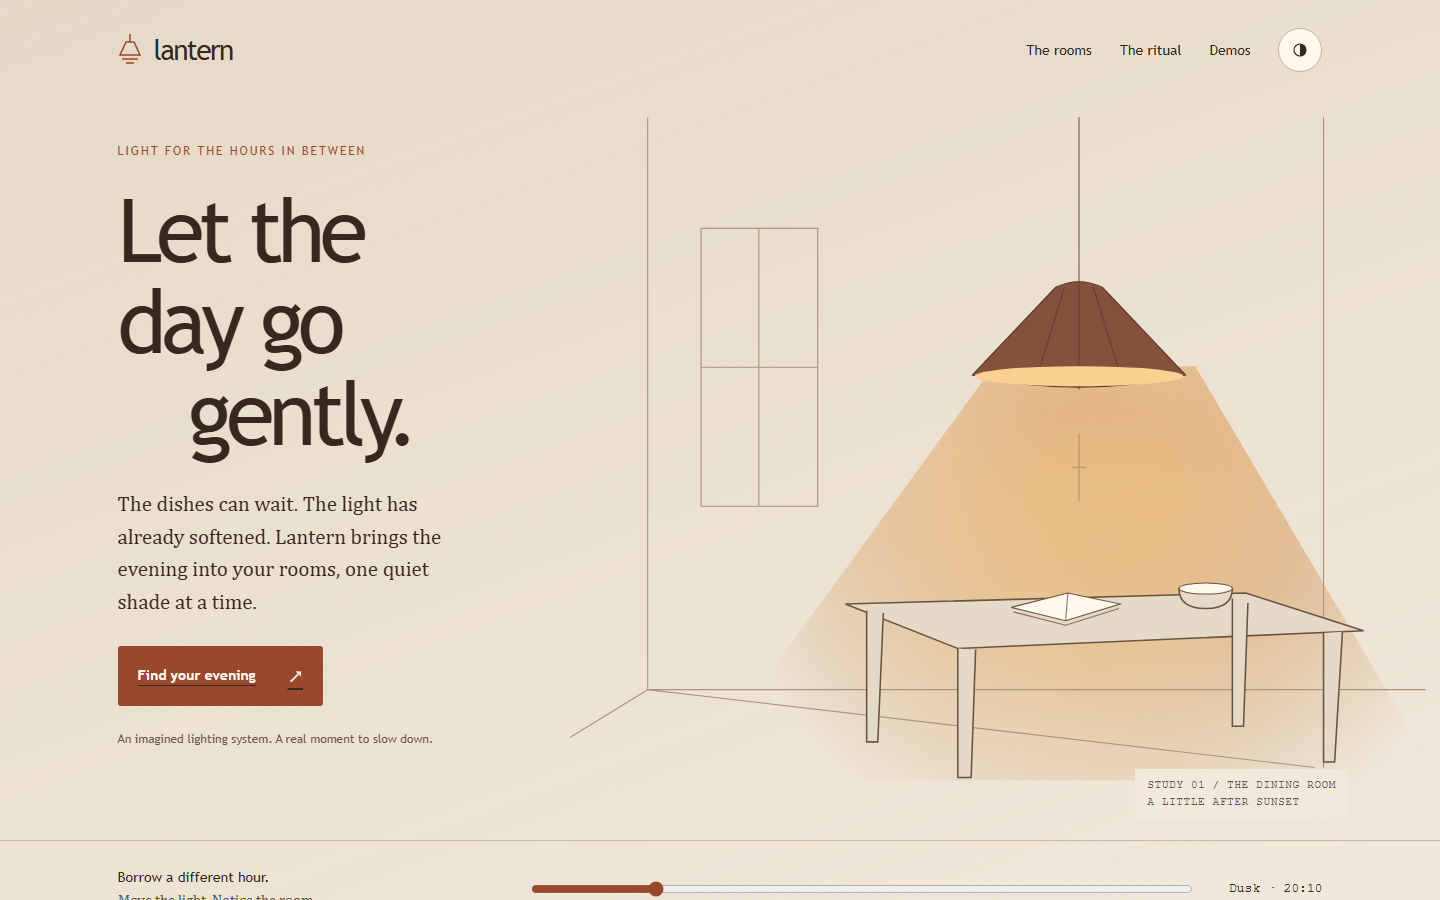
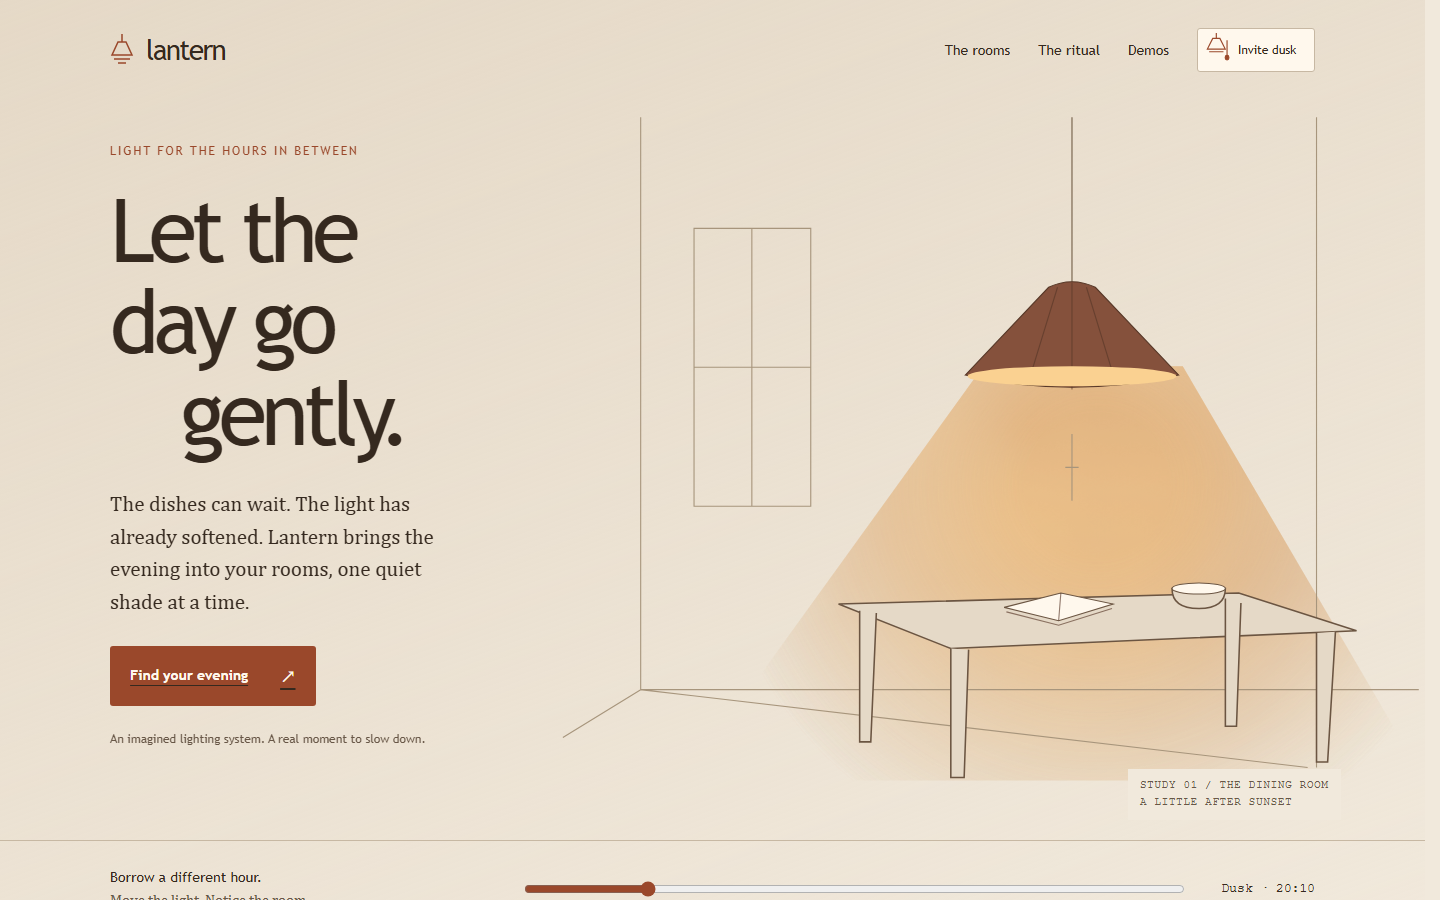
Signal and Lantern: themed theme switch with a slow reveal
Signal: a relay lever and one lime scan line crossing the page.
Lantern: a lamp pull cord; light withdraws into, or spreads from, the pendant.
1600ms view transition, latest click wins, immediate change for reduced
motion, the static tier and browsers without view transitions.

diff --git a/demos/experience/lantern.html b/demos/experience/lantern.html
@@ -46,7 +46,25 @@
     --beam-opacity: .85;
   }
   * { box-sizing: border-box; }
-  html { background: var(--bg); }
+  html { background: var(--bg); scrollbar-gutter: stable; }
+  @property --lamp-radius { syntax: '<length>'; inherits: false; initial-value: 0px; }
+  ::view-transition { pointer-events: none; }
+  html[data-theme-motion]::view-transition-group(*),
+  html[data-theme-motion]::view-transition-old(*),
+  html[data-theme-motion]::view-transition-new(*) { animation: none; mix-blend-mode: normal; }
+  /* Only the boundary is feathered. The captured type is never blurred or scaled. */
+  html[data-theme-motion="daylight"]::view-transition-new(root) {
+    mask-image: radial-gradient(circle at var(--lamp-x) var(--lamp-y), #000 calc(var(--lamp-radius) - 32px), transparent var(--lamp-radius));
+  }
+  html[data-theme-motion="lamplight"]::view-transition-new(root) {
+    mask-image: radial-gradient(circle at var(--lamp-x) var(--lamp-y), transparent calc(var(--lamp-radius) - 32px), #000 var(--lamp-radius));
+  }
+  html[data-theme-motion]::view-transition-old(lantern-switch),
+  html[data-theme-motion]::view-transition-old(lantern-room),
+  html[data-theme-motion]::view-transition-old(lantern-light) { display: none; }
+  html[data-theme-motion] .theme { view-transition-name: lantern-switch; }
+  html[data-theme-motion] .room-art { view-transition-name: lantern-room; }
+  html[data-theme-motion] .flow-hero__canvas { view-transition-name: lantern-light; }
   body { margin: 0; color: var(--ink); background: linear-gradient(160deg, var(--bg-2), transparent 45%), var(--bg); font: 18px/1.6 var(--serif); }
   button, input, select { font: inherit; color: inherit; }
   button, a, input, select { touch-action: manipulation; }
@@ -60,9 +78,11 @@
   .nav .sp { flex: 1; }
   .nav a { text-decoration: none; min-height: 44px; display: inline-flex; align-items: center; }
   .nav a:hover { text-decoration: underline; }
-  .theme { color: var(--ink); border: 1px solid var(--line); border-radius: 50%; width: 44px; height: 44px; background: var(--surface); display: grid; place-items: center; box-shadow: var(--shadow); }
+  .theme { color: var(--ink); border: 1px solid var(--line); border-radius: 3px; width: 118px; min-height: 44px; padding: 4px 8px; background: var(--surface); display: inline-flex; gap: 6px; align-items: center; box-shadow: var(--shadow); font: 12px var(--display); white-space: nowrap; flex-shrink: 0; }
   .theme:hover { border-color: var(--accent); }
-  .theme svg { width: 18px; height: 18px; }
+  .theme svg { width: 26px; height: 34px; color: var(--accent); overflow: visible; }
+  .lamp-pull { transform: translateY(0); }
+  .theme[aria-pressed="true"] .lamp-pull { transform: translateY(5px); }
   /* The lamp, floor and light share one coordinate space. Nothing is boxed. */
   #hero { --magnetic-focus: var(--accent); min-height: 650px; background: transparent; isolation: isolate; overflow: hidden; }
   #hero::before, #hero .flow-hero__canvas {
@@ -174,7 +194,7 @@
 <header class="wrap nav">
   <span class="logo"><svg viewBox="0 0 24 32" fill="none" stroke="currentColor" stroke-width="1.5" aria-hidden="true"><path d="M12 0v8M8 8h8l6 13H2L8 8ZM4 25h16M8 29h8"/></svg>lantern</span>
   <span class="sp"></span><a href="#rooms">The rooms</a><a href="#how">The ritual</a><a class="keep" href="index.html">Demos</a>
-  <button class="theme spring-press" id="theme" type="button" aria-label="Switch to the dark colour theme" title="Change colour theme"><svg viewBox="0 0 24 24" aria-hidden="true"><circle cx="12" cy="12" r="8" fill="none" stroke="currentColor" stroke-width="1.5"/><path d="M12 4a8 8 0 0 1 0 16Z" fill="currentColor"/></svg></button>
+  <button class="theme" id="theme" type="button" aria-pressed="false" aria-label="Invite dusk into the room"><svg viewBox="0 0 28 38" fill="none" stroke="currentColor" stroke-width="1.3" aria-hidden="true"><path d="M11 0v6M7 6h8l6 12H1ZM3 21h16"/><g class="lamp-pull"><path d="M23 8v17"/><rect x="21" y="25" width="4" height="5" rx="2" fill="currentColor"/></g></svg><span id="theme-label">Invite dusk</span></button>
 </header>
 <main>
 <section class="flow-hero" id="hero" aria-labelledby="title">
@@ -279,29 +299,134 @@
   var scheme = matchMedia('(prefers-color-scheme: dark)'), theme = document.getElementById('theme');
   function isDark() { return document.documentElement.dataset.theme ? document.documentElement.dataset.theme === 'dark' : scheme.matches; }
   function mix(x, y, t) { return 'rgb(' + x.map(function (v, i) { return Math.round(v + (y[i] - v) * t); }).join(' ') + ')'; }
+  var paletteBlend = isDark() ? 1 : 0;
+  function paintLight() {
+    var v = +hour.value, i = v < 50 ? 0 : 1, t = (v - LIGHT_SKIES[i].at) / 50;
+    ['a', 'b', 'c'].forEach(function (key) {
+      var light = LIGHT_SKIES[i][key].map(function (n, j) { return n + (LIGHT_SKIES[i + 1][key][j] - n) * t; });
+      var dark = DARK_SKIES[i][key].map(function (n, j) { return n + (DARK_SKIES[i + 1][key][j] - n) * t; });
+      hero.style.setProperty('--flow-' + key, mix(light, dark, paletteBlend));
+    });
+    // Both the still beam and the quality-governed shader read this same palette.
+    hero.style.setProperty('--beam-opacity', String(.65 + .2 * paletteBlend));
+    flow.refresh();
+  }
   function apply() {
     queued = false;
-    var skies = isDark() ? DARK_SKIES : LIGHT_SKIES;
-    var v = +hour.value, i = v < 50 ? 0 : 1, lo = skies[i], hi = skies[i + 1], t = (v - lo.at) / (hi.at - lo.at);
-    hero.style.setProperty('--flow-a', mix(lo.a, hi.a, t));
-    hero.style.setProperty('--flow-b', mix(lo.b, hi.b, t));
-    hero.style.setProperty('--flow-c', mix(lo.c, hi.c, t));
+    var v = +hour.value;
+    paintLight();
     document.getElementById('scene-time').textContent = v < 25 ? 'A little after sunset' : v < 75 ? 'The house is quiet now' : 'Morning, at your own pace';
     // 0..100 maps 18:00 → 06:00
     var mins = 18 * 60 + Math.round(v / 100 * 720 / 5) * 5, h = Math.floor(mins / 60) % 24, m = mins % 60;
     var name = v < 25 ? 'Dusk' : v < 75 ? 'Midnight' : 'Dawn';
     out.textContent = name + ' · ' + String(h).padStart(2, '0') + ':' + String(m).padStart(2, '0');
     hour.setAttribute('aria-valuetext', out.textContent);
-    flow.refresh();
   }
   var queued = false;
   hour.addEventListener('input', function () { if (!queued) { queued = true; requestAnimationFrame(apply); } }); // one update per frame
-  theme.addEventListener('click', function () {
-    document.documentElement.dataset.theme = isDark() ? 'light' : 'dark';
-    apply(); themeLabel();
-  });
-  function themeLabel() { var label = 'Switch to the ' + (isDark() ? 'light' : 'dark') + ' colour theme'; theme.setAttribute('aria-label', label); theme.title = label; }
-  scheme.addEventListener('change', function () { apply(); themeLabel(); });
+  var root = document.documentElement, reduced = matchMedia('(prefers-reduced-motion: reduce)');
+  var themeIntent = null, themeRun = 0, themeTransition = null, themeAnimations = [], paletteFrame = 0;
+  var themeDuration = 1600, themeEase = 'cubic-bezier(.45,.05,.25,1)';
+  function themeLabel() {
+    var dark = isDark(), label = dark ? 'Let daylight into the room' : 'Invite dusk into the room';
+    document.getElementById('theme-label').textContent = dark ? 'Let day in' : 'Invite dusk';
+    theme.setAttribute('aria-label', label); theme.title = label;
+    theme.setAttribute('aria-pressed', String(dark));
+  }
+  function themeStill() {
+    return reduced.matches || root.dataset.quality === 'static' || !document.startViewTransition ||
+      !window.CSS || !CSS.registerProperty || !CSS.supports('mask-image', 'radial-gradient(circle, #000, transparent)');
+  }
+  function stopThemeAnimations() {
+    cancelAnimationFrame(paletteFrame); paletteFrame = 0;
+    themeAnimations.forEach(function (a) { a.cancel(); }); themeAnimations = [];
+  }
+  function themePaint() {
+    var nodes = [theme.querySelector('.lamp-pull')].concat(Array.from(document.querySelectorAll('.room-art path, .room-art ellipse')));
+    return nodes.map(function (node) {
+      var cs = getComputedStyle(node), props = node.classList.contains('lamp-pull') ? ['transform'] : ['fill', 'stroke'];
+      var from = {}; props.forEach(function (p) { from[p] = cs[p]; });
+      return { node: node, props: props, from: from };
+    });
+  }
+  function applyTheme(next, immediate) {
+    root.dataset.theme = next; themeLabel();
+    if (immediate) { paletteBlend = next === 'dark' ? 1 : 0; paintLight(); }
+  }
+  function clearTheme(run) {
+    if (run !== themeRun) return;
+    stopThemeAnimations(); paletteBlend = isDark() ? 1 : 0; paintLight();
+    root.removeAttribute('data-theme-motion');
+    root.style.removeProperty('--lamp-x'); root.style.removeProperty('--lamp-y');
+    themeTransition = null; themeIntent = null;
+  }
+  function changeTheme() {
+    var next = (themeIntent || (isDark() ? 'dark' : 'light')) === 'dark' ? 'light' : 'dark';
+    themeIntent = next;
+    var run = ++themeRun, before = themePaint(), fromBlend = paletteBlend;
+    if (themeTransition) themeTransition.skipTransition();
+    stopThemeAnimations();
+    if (themeStill()) { applyTheme(next, true); clearTheme(run); return; }
+    // The pendant's actual rim is the origin, including the mobile SVG's meet scaling.
+    // When it is outside the viewport, use the little lamp in the switch instead.
+    var lamp = document.querySelector('.room-art .rim').getBoundingClientRect();
+    var x = lamp.left + lamp.width / 2, y = lamp.top + lamp.height / 2;
+    if (x < 0 || x > innerWidth || y < 0 || y > innerHeight) {
+      lamp = theme.querySelector('svg').getBoundingClientRect(); x = lamp.left + lamp.width / 2; y = lamp.top + lamp.height / 2;
+    }
+    var radius = Math.hypot(Math.max(x, innerWidth - x), Math.max(y, innerHeight - y)) + 40;
+    root.style.setProperty('--lamp-x', x + 'px'); root.style.setProperty('--lamp-y', y + 'px');
+    root.dataset.themeMotion = next === 'dark' ? 'lamplight' : 'daylight';
+    function failed(error) {
+      if (run !== themeRun) return; // A newer intent deliberately skipped this capture.
+      console.error('Lantern: theme reveal failed.', error);
+      applyTheme(next, true); if (themeTransition) themeTransition.skipTransition(); clearTheme(run);
+    }
+    try {
+      var vt = document.startViewTransition(function () { if (run === themeRun) applyTheme(next, false); });
+      themeTransition = vt;
+      vt.ready.then(function () {
+        if (run !== themeRun) return;
+        var timing = { duration: themeDuration, easing: themeEase, fill: 'both' };
+        before.forEach(function (item) {
+          var cs = getComputedStyle(item.node), from = {}, to = {};
+          item.props.forEach(function (p) { if (item.from[p] !== cs[p]) { from[p] = item.from[p]; to[p] = cs[p]; } });
+          if (Object.keys(to).length) themeAnimations.push(item.node.animate([from, to], timing));
+        });
+        var reveal = root.animate([
+          { '--lamp-radius': (next === 'dark' ? radius : 0) + 'px' },
+          { '--lamp-radius': (next === 'dark' ? 0 : radius) + 'px' }
+        ], Object.assign({ pseudoElement: '::view-transition-new(root)' }, timing));
+        themeAnimations.push(reveal);
+        var lastPaint = -Infinity;
+        function followLight(now) {
+          if (run !== themeRun) return;
+          try {
+            // Use the reveal's eased progress, with the existing low tier's 30fps cap.
+            var progress = reveal.effect.getComputedTiming().progress;
+            if (progress !== null && (root.dataset.quality !== 'low' || now - lastPaint >= 1000 / 30 || progress === 1)) {
+              paletteBlend = fromBlend + ((next === 'dark' ? 1 : 0) - fromBlend) * progress;
+              paintLight(); lastPaint = now;
+            }
+            paletteFrame = requestAnimationFrame(followLight);
+          } catch (error) { failed(error); }
+        }
+        paletteFrame = requestAnimationFrame(followLight);
+      }).catch(failed);
+      vt.updateCallbackDone.catch(failed);
+      vt.finished.then(function () { clearTheme(run); }, failed);
+    } catch (error) { failed(error); }
+  }
+  function settleTheme() {
+    if (!themeTransition) return;
+    var next = themeIntent, vt = themeTransition; ++themeRun;
+    vt.skipTransition(); applyTheme(next, true); clearTheme(themeRun);
+  }
+  theme.addEventListener('click', changeTheme);
+  reduced.addEventListener('change', function () { if (reduced.matches) settleTheme(); });
+  root.addEventListener('qualitychange', function () { if (themeStill()) settleTheme(); });
+  document.addEventListener('visibilitychange', function () { if (document.hidden) settleTheme(); });
+  scheme.addEventListener('change', function () { settleTheme(); if (!themeTransition) paletteBlend = isDark() ? 1 : 0; apply(); themeLabel(); });
   themeLabel(); apply();
 
   var state = document.getElementById('flow-state');

diff --git a/demos/experience/signal.html b/demos/experience/signal.html
@@ -38,7 +38,17 @@
     --shadow: 0 12px 36px -24px #424c3860;
   }
   * { box-sizing: border-box; }
-  html { background: var(--bg); }
+  html { background: var(--bg); scrollbar-gutter: stable; }
+  ::view-transition { pointer-events: none; }
+  /* A relay scan: the old desk stays still beneath one downward trace.
+     The switch stays live; the fleet's new colours ease behind the reveal. */
+  html[data-theme-motion]::view-transition-group(*) { animation: none; }
+  html[data-theme-motion]::view-transition-old(*),
+  html[data-theme-motion]::view-transition-new(*) { animation: none; mix-blend-mode: normal; }
+  html[data-theme-motion]::view-transition-new(root) { z-index: 2; }
+  html[data-theme-motion]::view-transition-old(signal-switch),
+  html[data-theme-motion]::view-transition-old(signal-scan) { display: none; }
+  html[data-theme-motion]::view-transition-group(signal-scan) { z-index: 3; }
   body { margin: 0; min-height: 100vh; color: var(--ink); font: 14px/1.5 var(--sans); background: radial-gradient(ellipse at 10% 0%, var(--bg-2), transparent 60%), var(--bg); }
   button, input { color: inherit; font: inherit; }
   button, a, input { touch-action: manipulation; }
@@ -54,8 +64,14 @@
   .env::before { content: " / "; color: var(--accent); }
   .spacer { flex: 1; }
   .bar a { font-size: 13px; }
-  .theme { border: 1px solid var(--line-2); background: var(--surface); padding: 7px 12px; width: 108px; min-height: 40px; font: 12px var(--mono); }
+  .theme { border: 1px solid var(--line-2); background: var(--surface); padding: 6px 10px; width: 140px; min-height: 44px; display: inline-flex; align-items: center; gap: 9px; font: 12px var(--mono); white-space: nowrap; flex-shrink: 0; }
   .theme:hover, .theme:focus-visible { background: var(--bg-2); }
+  .theme svg { width: 32px; height: 28px; color: var(--accent); }
+  .relay-lever { transform-origin: 16px 20px; transform: rotate(-28deg); }
+  .theme[aria-pressed="true"] .relay-lever { transform: rotate(28deg); }
+  html[data-theme-motion] .theme { view-transition-name: signal-switch; }
+  .theme-scan { position: fixed; top: 0; left: 0; width: 100%; height: 1px; background: var(--accent); pointer-events: none; opacity: 0; }
+  html[data-theme-motion] .theme-scan { opacity: 1; view-transition-name: signal-scan; }
   main { max-width: 1440px; padding: 30px clamp(20px, 4vw, 64px) 32px; margin: auto; }
   .head { display: flex; gap: 24px; justify-content: space-between; align-items: end; }
   .eyebrow { margin: 0 0 12px; }
@@ -179,8 +195,9 @@
   </span>
   <span class="env">Relay desk / fictional fleet</span>
   <span class="spacer"></span>
-  <a href="index.html">Demos</a><button class="theme spring-press" id="theme" type="button" aria-label="Change colour theme">Light desk</button>
+  <a href="index.html">Demos</a><button class="theme" id="theme" type="button" aria-pressed="false" aria-label="Route to light desk"><svg viewBox="0 0 32 28" fill="none" stroke="currentColor" aria-hidden="true"><path d="M4 6h5m14 0h5M5 24h22"/><circle cx="16" cy="20" r="4"/><g class="relay-lever"><path d="M16 20V6" stroke-width="2"/><rect x="12" y="2" width="8" height="7" rx="1" fill="currentColor"/></g></svg><span id="theme-label">Light desk</span></button>
 </header>
+<div class="theme-scan" aria-hidden="true"></div>
 
 <main>
   <section id="list" aria-labelledby="t">
@@ -414,9 +431,73 @@
   document.querySelectorAll('[data-service]').forEach(function (b) { b.addEventListener('click', function () { show(b.dataset.service, true); }); });
   // A single explicit override; the system theme remains the initial choice.
   var theme = $('theme'), scheme = matchMedia('(prefers-color-scheme: dark)');
-  function themeLabel() { var dark = document.documentElement.dataset.theme ? document.documentElement.dataset.theme === 'dark' : scheme.matches; theme.textContent = dark ? 'Light desk' : 'Dark desk'; }
-  theme.addEventListener('click', function () { var dark = document.documentElement.dataset.theme ? document.documentElement.dataset.theme === 'dark' : scheme.matches; document.documentElement.dataset.theme = dark ? 'light' : 'dark'; themeLabel(); });
-  scheme.addEventListener('change', themeLabel); themeLabel();
+  var root = document.documentElement, reduced = matchMedia('(prefers-reduced-motion: reduce)');
+  var themeIntent = null, themeRun = 0, themeTransition = null, themeAnimations = [];
+  var themeDuration = 1600, themeEase = 'cubic-bezier(.45,.05,.25,1)';
+  function isDark() { return root.dataset.theme ? root.dataset.theme === 'dark' : scheme.matches; }
+  function themeLabel() {
+    var dark = isDark(), label = dark ? 'Light desk' : 'Dark desk';
+    $('theme-label').textContent = label;
+    theme.setAttribute('aria-label', 'Route to ' + label.toLowerCase());
+    theme.setAttribute('aria-pressed', String(dark));
+    theme.title = 'Route to ' + label.toLowerCase();
+  }
+  function themeStill() { return reduced.matches || root.dataset.quality === 'static' || !document.startViewTransition; }
+  function stopThemeAnimations() { themeAnimations.forEach(function (a) { a.cancel(); }); themeAnimations = []; }
+  function themePaint() {
+    var nodes = [theme.querySelector('.relay-lever')].concat(Array.from(fleet.querySelectorAll('path, polyline')));
+    return nodes.map(function (node) {
+      var cs = getComputedStyle(node), props = node.classList.contains('relay-lever') ? ['transform'] : ['fill', 'stroke'];
+      var from = {}; props.forEach(function (p) { from[p] = cs[p]; });
+      return { node: node, props: props, from: from };
+    });
+  }
+  function applyTheme(next) { root.dataset.theme = next; themeLabel(); }
+  function clearTheme(run) {
+    if (run !== themeRun) return;
+    stopThemeAnimations(); root.removeAttribute('data-theme-motion'); themeTransition = null; themeIntent = null;
+  }
+  function changeTheme() {
+    var next = (themeIntent || (isDark() ? 'dark' : 'light')) === 'dark' ? 'light' : 'dark';
+    themeIntent = next;
+    var run = ++themeRun, before = themePaint();
+    if (themeTransition) themeTransition.skipTransition();
+    stopThemeAnimations();
+    if (themeStill()) { applyTheme(next); clearTheme(run); return; }
+    root.dataset.themeMotion = 'relay-scan';
+    function failed(error) {
+      if (run !== themeRun) return; // A newer intent deliberately skipped this capture.
+      console.error('Signal: theme reveal failed.', error);
+      applyTheme(next); if (themeTransition) themeTransition.skipTransition(); clearTheme(run);
+    }
+    try {
+      var vt = document.startViewTransition(function () { if (run === themeRun) applyTheme(next); });
+      themeTransition = vt;
+      vt.ready.then(function () {
+        if (run !== themeRun) return;
+        var timing = { duration: themeDuration, easing: themeEase, fill: 'both' };
+        before.forEach(function (item) {
+          var cs = getComputedStyle(item.node), from = {}, to = {};
+          item.props.forEach(function (p) { if (item.from[p] !== cs[p]) { from[p] = item.from[p]; to[p] = cs[p]; } });
+          if (Object.keys(to).length) themeAnimations.push(item.node.animate([from, to], timing));
+        });
+        themeAnimations.push(root.animate([{ clipPath: 'inset(0 0 100% 0)' }, { clipPath: 'inset(0)' }], Object.assign({ pseudoElement: '::view-transition-new(root)' }, timing)));
+        themeAnimations.push(root.animate([{ transform: 'translateY(0)' }, { transform: 'translateY(' + innerHeight + 'px)' }], Object.assign({ pseudoElement: '::view-transition-group(signal-scan)' }, timing)));
+      }).catch(failed);
+      vt.updateCallbackDone.catch(failed);
+      vt.finished.then(function () { clearTheme(run); }, failed);
+    } catch (error) { failed(error); }
+  }
+  function settleTheme() {
+    if (!themeTransition) return;
+    var next = themeIntent, vt = themeTransition; ++themeRun;
+    vt.skipTransition(); applyTheme(next); clearTheme(themeRun);
+  }
+  theme.addEventListener('click', changeTheme);
+  reduced.addEventListener('change', function () { if (reduced.matches) settleTheme(); });
+  root.addEventListener('qualitychange', function () { if (themeStill()) settleTheme(); });
+  document.addEventListener('visibilitychange', function () { if (document.hidden) settleTheme(); });
+  scheme.addEventListener('change', function () { settleTheme(); themeLabel(); }); themeLabel();
   render();
   if (location.hash.length > 1) show(decodeURIComponent(location.hash.slice(1)), false);
 })();
